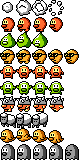
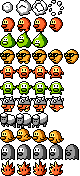
Minor things

diff --git a/src/enemy.js b/src/enemy.js
@@ -27,6 +27,8 @@ export class Enemy extends GameObject {
         this.immortal = false;
         this.harmless = false;
 
+        this.inCamera = false;
+
         this.friction.x = 0.1;
         this.friction.y = 0.1;
 
@@ -122,6 +124,10 @@ export class Enemy extends GameObject {
 
     // Deal with player, mostly to get the position
     checkPlayer(o) { }
+
+
+    // Deal with the camera
+    checkCamera(cam) { }
 
 
     floorEvent(ev) {
@@ -508,7 +514,6 @@ export class Bird extends Enemy {
 }
 
 
-
 export class Ghost extends Enemy {
 
     constructor(x, y) {
@@ -556,8 +561,6 @@ export class Ghost extends Enemy {
     // Logic
     updateLogic(ev) { 
 
-        this.harmless = this.active;
-        this.immortal = !this.harmless;
     }
 
 
@@ -574,4 +577,68 @@ export class Ghost extends Enemy {
         }
     }
 
+}
+
+
+export class Flame extends Enemy {
+
+    constructor(x, y) {
+
+        super(x, y);
+
+        this.startPos = this.pos.clone();
+
+        this.spr.setFrame(10, 0);
+
+        this.colbox.y = 8;
+
+        this.friction.y = 0.05;
+
+        this.speedSet = false;
+        this.immortal = true;
+
+        this.waveTimer = 0;
+    }
+
+
+    checkCamera(cam) {
+
+        const GRAVITY = 0.5;
+
+        if (!this.speedSet) {
+
+            this.target.y = GRAVITY;
+            this.speed.y = 0;
+            this.pos.y = cam.topCorner.y-8;
+
+            this.speedSet = true;
+        }
+    }
+
+
+    // Logic
+    updateLogic(ev) { 
+
+        const WAVE_SPEED = 0.05;
+        const AMPLITUDE = 16;
+
+        this.waveTimer = (this.waveTimer + WAVE_SPEED*ev.step) % (Math.PI*2);
+
+        this.pos.x = this.startPos.x + 
+            Math.round(Math.sin(this.waveTimer) * AMPLITUDE);
+
+    }
+
+
+    // Animate
+    animate(ev) {
+
+        this.spr.animate(this.spr.row, 0, 3, 4, ev.step);
+    }
+
+
+    floorEvent(ev) {
+
+        this.kill(ev);
+    }
 }

diff --git a/src/stage.js b/src/stage.js
@@ -7,7 +7,7 @@
 
 import { negMod } from "./core/util.js";
 import { Coin, Heart } from "./collectable.js";
-import { Walker, Slime, Dog, ImpVertical, ImpHorizontal, SpikeyWalker, Jumper, Bird, Ghost } from "./enemy.js";
+import { Walker, Slime, Dog, ImpVertical, ImpHorizontal, SpikeyWalker, Jumper, Bird, Ghost, Flame } from "./enemy.js";
 import { Vector2 } from "./core/vector.js";
 
 
@@ -156,6 +156,7 @@ export class Stage {
                     objm.addItem(Coin, x*16, y*16);
                     break;
 
+                // I'm starting to question the meaning of switch...
                 // Walker
                 case 17:
                 case 18:
@@ -166,10 +167,11 @@ export class Stage {
                 case 23:
                 case 24:
                 case 25:
+                case 26:
                     objm.addEnemy( 
                         [Walker, Slime, Dog, 
                         ImpVertical, ImpHorizontal, SpikeyWalker,
-                        Jumper, Bird, Ghost] [t-17], 
+                        Jumper, Bird, Ghost, Flame] [t-17], 
                         x*16, y*16);
                     break;
 

diff --git a/src/gameobject.js b/src/gameobject.js
@@ -114,10 +114,10 @@ export class GameObject {
         let ow = o.colbox.x/2;
         let oh = o.colbox.y/2;
         
-        if (px + pw > ox - ow && 
-            px - pw < ox + ow && 
-            py + ph > oy - oh &&
-            py - ph < oy + oh) {
+        if (px + pw >= ox - ow && 
+            px - pw <= ox + ow && 
+            py + ph >= oy - oh &&
+            py - ph <= oy + oh) {
             
             if (hostile && o.hostileCollision != undefined) {
                 

diff --git a/src/objectmanager.js b/src/objectmanager.js
@@ -95,7 +95,11 @@ export class ObjectManager {
         // Update enemies
         for (let o of this.enemies) {
 
-            o.checkPlayer(this.player);
+            if (o.inCamera) {
+
+                o.checkPlayer(this.player);
+                o.checkCamera(cam);
+            }
             o.update(ev);
             o.checkIfInCamera(cam);
 

diff --git a/src/player.js b/src/player.js
@@ -173,7 +173,7 @@ export class Player extends GameObject {
         this.pos.y = y;
         this.oldPos = this.pos.clone();
 
-        this.hitbox.x = 12;
+        this.hitbox.x = 16;
         this.hitbox.y = 20;
 
         this.colbox.x = 8;
